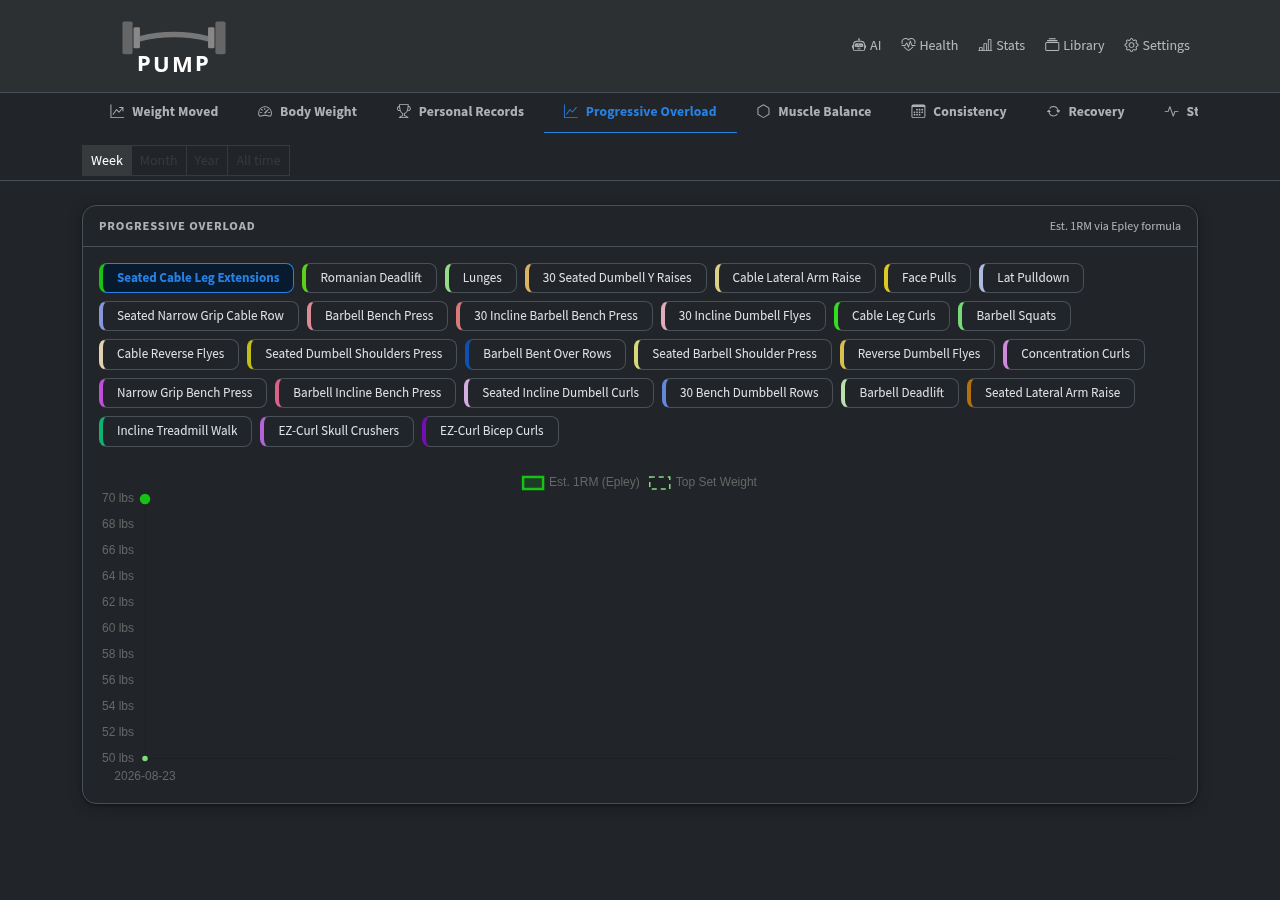
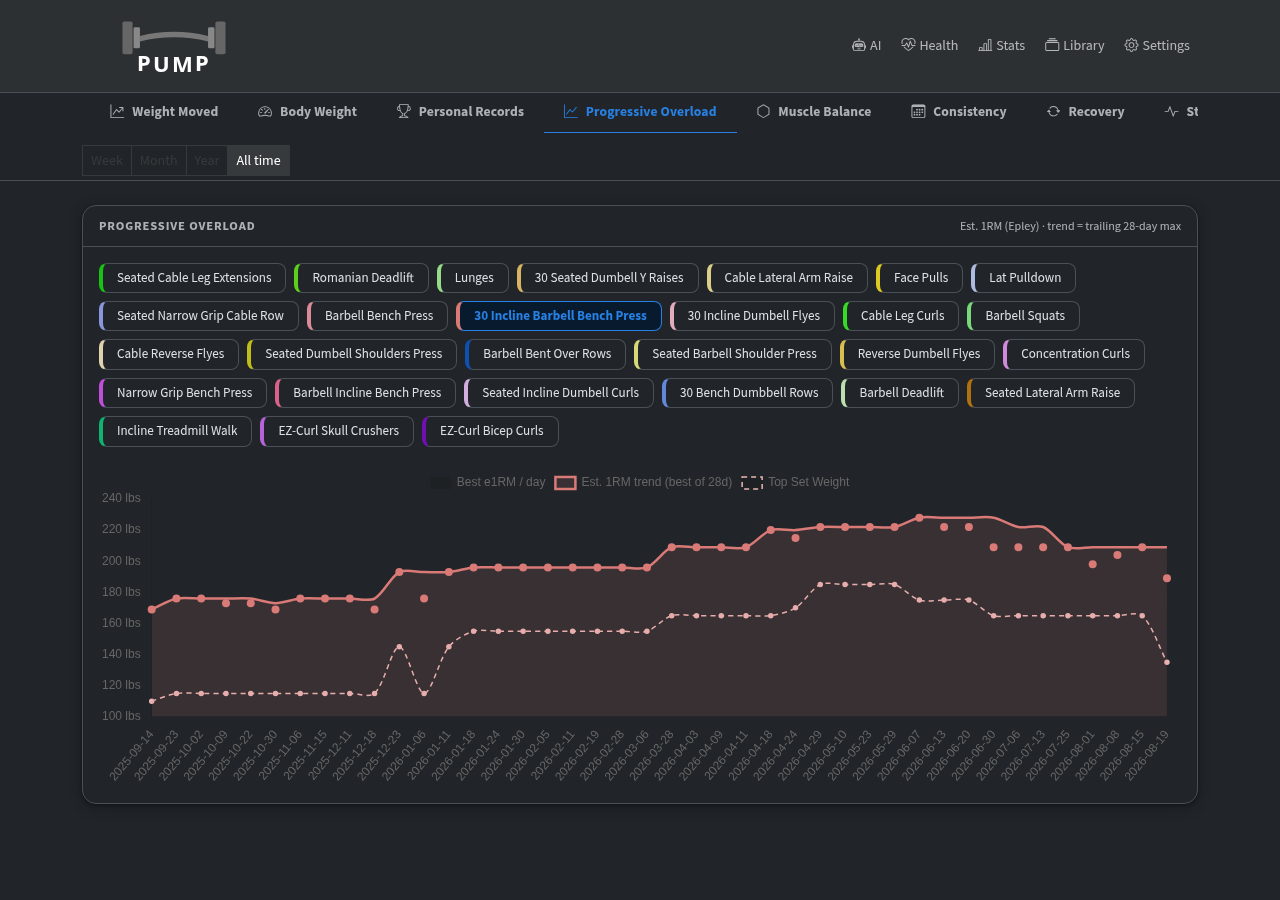
feat(stats): rolling 28-day max trend line on Progressive Overload
The Progressive Overload chart plotted raw best-e1RM-per-day as the trend,
so a single lighter / higher-rep day read as a strength regression even
when nothing had changed. Epley assumes every set is to failure, so a
135x12 hypertrophy set predicts a lower e1RM (189) than a heavy 165x8
(209) — the estimator can't see reps-in-reserve.

Change the headline line to a trailing 28-day rolling max of daily best
e1RM, so the trend holds as long as a heavier day sits inside the window.
The raw per-day best is retained as points underneath (so light days are
still visible), and Top Set Weight is unchanged. Tunable via
ROLLING_MAX_DAYS in stats.js.

Frontend-only; no schema change. Regenerated screenshot-stats-overload.png.

diff --git a/internal/web/public/js/stats.js b/internal/web/public/js/stats.js
@@ -583,6 +583,27 @@ function renderOverloadChart(allSets, exercises, period, exerciseName) {
     }
     if (noDataEl) noDataEl.style.display = 'none';
 
+    // Headline trend is a trailing-window max of the daily best e1RM, not the
+    // raw per-day best. A single lighter / higher-rep day predicts a lower
+    // Epley e1RM even when true strength hasn't moved (the formula assumes every
+    // set is to failure), so plotting raw daily best made an easy day read as a
+    // regression. The rolling max holds the trend as long as a heavier day sits
+    // within the window; the raw daily best still shows as points underneath.
+    const ROLLING_MAX_DAYS = 28;
+    const dayMs = 86400000;
+    const toTime = d => new Date(d + 'T00:00:00').getTime();
+    const rollingMax = dates.map(d => {
+        const dt = toTime(d);
+        let m = 0;
+        dates.forEach(o => {
+            const ot = toTime(o);
+            if (ot <= dt && ot > dt - ROLLING_MAX_DAYS * dayMs && byDate[o].e1rm > m) {
+                m = byDate[o].e1rm;
+            }
+        });
+        return Math.round(m);
+    });
+
     const colorMap = {};
     (exercises || []).forEach(ex => { colorMap[ex.Name] = ex.Color; });
     const color = colorMap[exerciseName] || window._chartColor || '#2780e3';
@@ -594,15 +615,24 @@ function renderOverloadChart(allSets, exercises, period, exerciseName) {
             labels: dates,
             datasets: [
                 {
-                    label: 'Est. 1RM (Epley)',
-                    data: dates.map(d => Math.round(byDate[d].e1rm)),
+                    label: `Est. 1RM trend (best of ${ROLLING_MAX_DAYS}d)`,
+                    data: rollingMax,
                     borderColor: color,
                     backgroundColor: color + '22',
                     borderWidth: 2.5,
-                    pointRadius: 4,
-                    pointBackgroundColor: color,
+                    pointRadius: 0,
                     tension: 0.3,
                     fill: true,
+                    order: 2,
+                },
+                {
+                    label: 'Best e1RM / day',
+                    data: dates.map(d => Math.round(byDate[d].e1rm)),
+                    borderColor: 'transparent',
+                    showLine: false,
+                    pointRadius: 4,
+                    pointBackgroundColor: color,
+                    order: 1,
                 },
                 {
                     label: 'Top Set Weight',
@@ -614,6 +644,7 @@ function renderOverloadChart(allSets, exercises, period, exerciseName) {
                     pointBackgroundColor: fadedColor,
                     tension: 0.3,
                     fill: false,
+                    order: 3,
                 }
             ]
         },
@@ -632,9 +663,9 @@ function renderOverloadChart(allSets, exercises, period, exerciseName) {
                 tooltip: {
                     callbacks: {
                         label(ctx) {
-                            return ctx.datasetIndex === 0
-                                ? `Est. 1RM: ${ctx.raw} lbs`
-                                : `Top set: ${ctx.raw} lbs`;
+                            if (ctx.datasetIndex === 0) return `Trend: ${ctx.raw} lbs`;
+                            if (ctx.datasetIndex === 1) return `Est. 1RM: ${ctx.raw} lbs`;
+                            return `Top set: ${ctx.raw} lbs`;
                         }
                     }
                 }

diff --git a/internal/web/templates/stats.html b/internal/web/templates/stats.html
@@ -250,7 +250,7 @@
               <div class="panel">
                 <div class="panel-header">
                   <span class="panel-title">Progressive Overload</span>
-                  <small class="text-body-secondary panel-subnote">Est. 1RM via Epley formula</small>
+                  <small class="text-body-secondary panel-subnote">Est. 1RM (Epley) · trend = trailing 28-day max</small>
                 </div>
                 <div class="px-3 pt-3 pb-1">
                   <div id="overload-ex-buttons" class="d-flex flex-wrap gap-2"></div>
